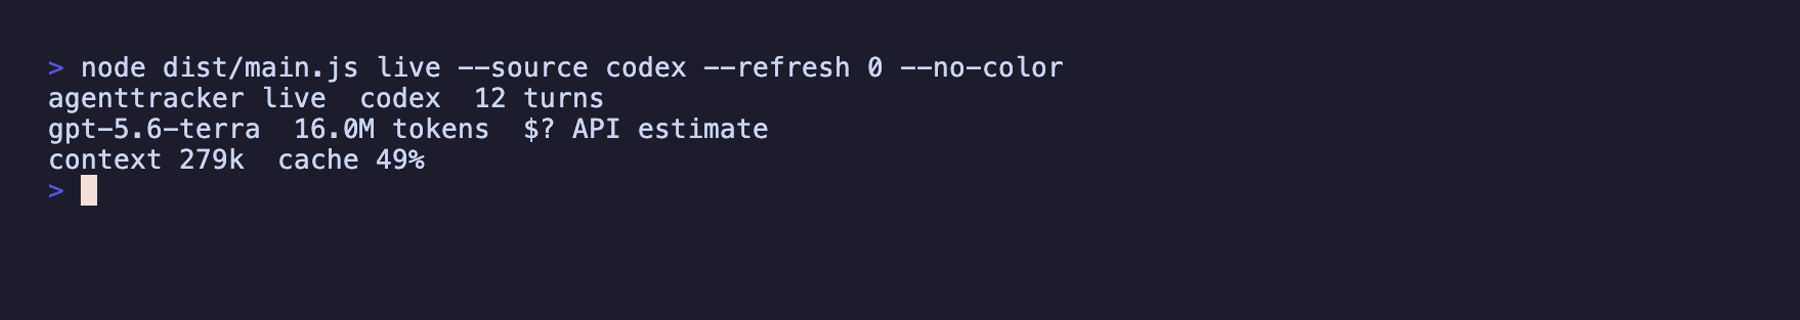
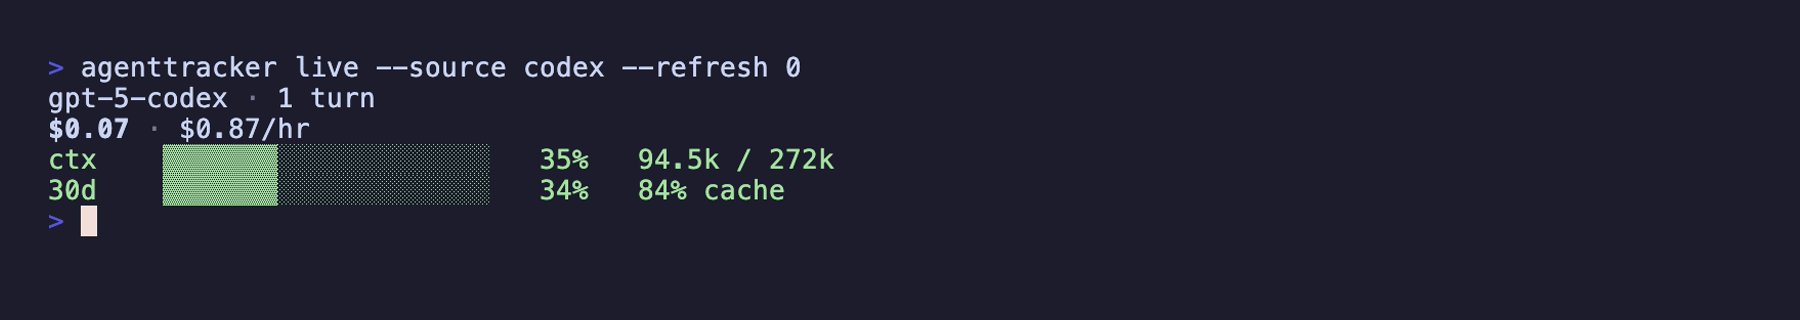
docs: rewrite the readme, and re-record the images (#13)
The readme is down to what someone deciding whether to install this
needs: what it is, the three commands that install it, what the
panels look like, and the command list. The install block now shows
setup rather than leaving both integrations to be wired by hand.

Title and badges are centred, which needs inline html since markdown
has no way to do it. The node version line is gone: the badge above
already says it.

Re-recorded every readme image. All three still showed `ccvitals`,
the name before the rename, which made the readme advertise a command
that does not exist. The heatmap crop moved up as well, because the
demo data now includes a Codex session and the extra legend entry
pushed a table header into frame with nothing under it.

The Codex recording keeps its colors now. The gauges are the one
place color carries meaning rather than decoration, so capturing them
with --no-color misreported what the panel looks like in use.

Fixes the demo Codex session, which had more cached tokens than input
tokens. Codex nests cached inside input, so that shape is impossible
and now parses to zero fresh input.

Points homepage, repository and bugs at ado11231/agent-tracker. All
three pointed at ado11231/agenttracker, which 404s. The package stays
`agenttracker` because `agent-tracker` is taken on npm by someone
else.

Changed region(s): [[0.0, 0.2812, 0.4667, 0.75], [0.0311, 0.1562, 0.5911, 0.25]]

diff --git a/README.md b/README.md
@@ -1,11 +1,28 @@
-# agent-tracker
+<h1 align="center">agent-tracker</h1>
+
+<p align="center">
+  <a href="https://www.npmjs.com/package/agenttracker"><img src="https://img.shields.io/npm/v/agenttracker?logo=npm&label=npm" alt="npm version"></a>
+  <a href="https://nodejs.org/"><img src="https://img.shields.io/badge/node-%E2%89%A520-339933?logo=node.js&logoColor=white" alt="Node.js 20+"></a>
+  <a href="LICENSE"><img src="https://img.shields.io/badge/license-MIT-8A2BE2" alt="License: MIT"></a>
+  <a href="https://github.com/ado11231/agent-tracker"><img src="https://img.shields.io/github/stars/ado11231/agent-tracker?style=flat&logo=github" alt="GitHub stars"></a>
+</p>
+
+See what your agents cost, live in the terminal you already have open. Reads the session logs Claude Code and Codex already write. No API key, no account, no telemetry.
+
+## Install
 
 ```bash
 npm install -g agenttracker
-agenttracker
+
+agenttracker setup           # Claude Code
+agenttracker setup --codex   # Codex
 ```
 
+Codex asks you to trust the hook once, the first time it starts.
+
 ## Live metrics
+
+The same panel in both agents, drawn after every turn. No second terminal.
 
 ### Claude Code
 
@@ -22,7 +39,7 @@ agenttracker
 ## Heat chart
 
 <p align="center">
-  <img src="https://raw.githubusercontent.com/ado11231/agent-tracker/main/docs/images/heatmap.png" alt="AgentTracker heat chart">
+  <img src="https://raw.githubusercontent.com/ado11231/agent-tracker/main/docs/images/heatmap.png" alt="agent-tracker heat chart">
 </p>
 
 ## Commands
@@ -30,8 +47,16 @@ agenttracker
 | Command | |
 | --- | --- |
 | `agenttracker` | dashboard |
-| `agenttracker live` | live metrics |
 | `agenttracker sessions` | sessions |
-| `agenttracker context [id]` | context |
+| `agenttracker context` | context |
+| `agenttracker live` | live panel in its own terminal |
 | `agenttracker doctor` | diagnostics |
-| `agenttracker statusline` | Claude Code status line |
+| `agenttracker setup` | install, `--uninstall` to remove |
+
+Every command takes `--json`, `--no-color`, and `--source claude|codex`.
+
+## Privacy
+
+Reads `~/.claude/projects` and `~/.codex/sessions`. Nothing leaves your machine.
+
+MIT
